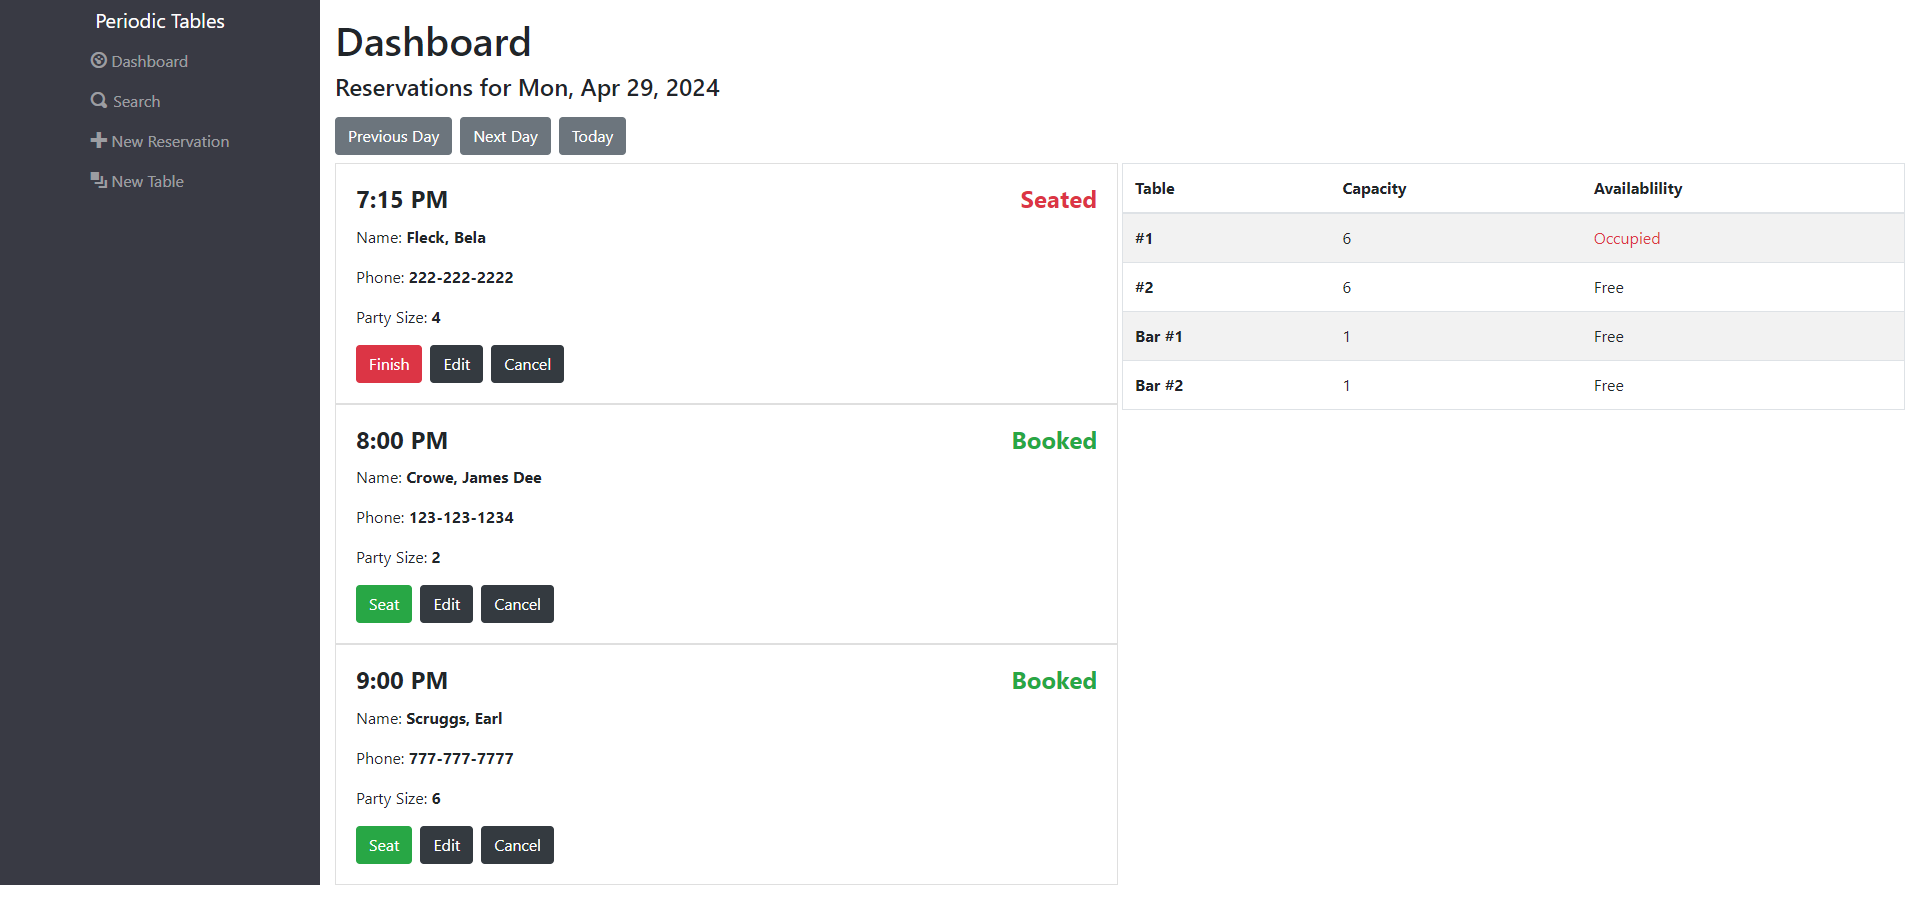
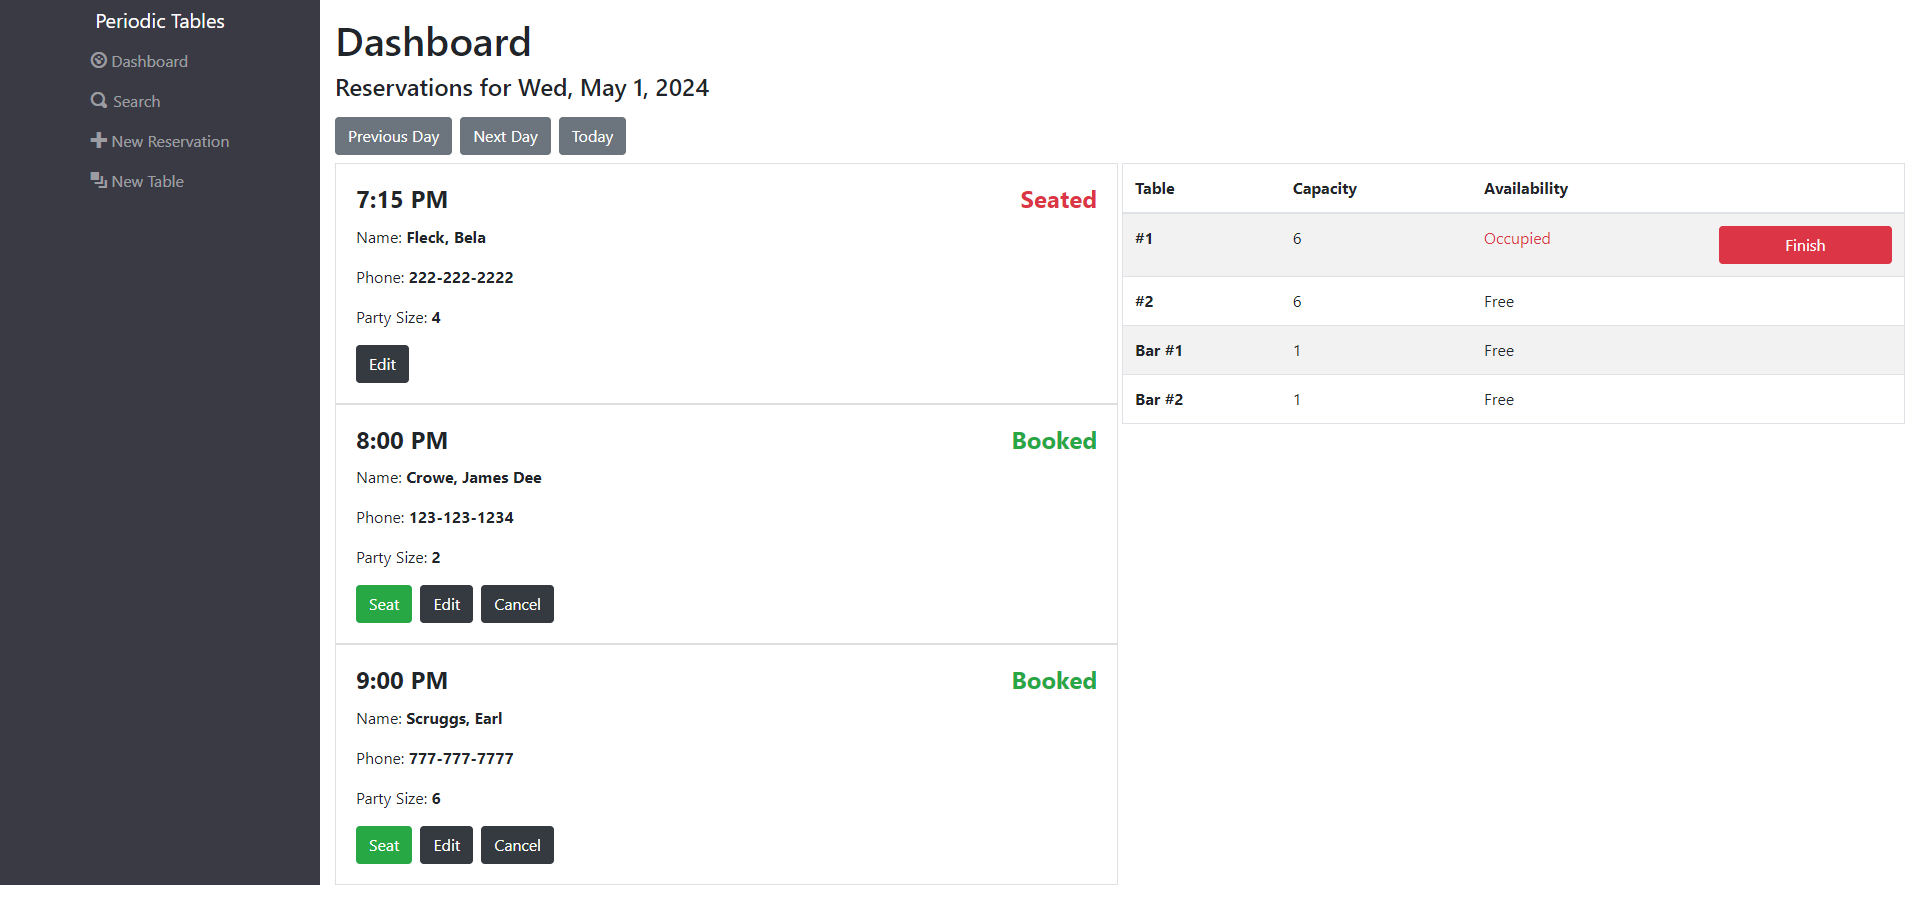
Added more installation info to README - Moved Finish button from reservation to table

diff --git a/front-end/src/dashboard/Reservation.js b/front-end/src/dashboard/Reservation.js
@@ -1,14 +1,9 @@
 import React from "react";
-import {
-  updateReservationStatus,
-  finishReservation,
-  listReservations,
-} from "../utils/api";
+import { updateReservationStatus, listReservations } from "../utils/api";
 
 function Reservation({
   reservation,
   tables,
-  loadDashboard,
   phoneNumber,
   setReservations,
   setReservationsError,
@@ -47,21 +42,6 @@ function Reservation({
     return `${Number(hours) - 12}:${minutes} PM`;
   }
 
-  async function modalFinish() {
-    const abortController = new AbortController();
-    try {
-      const modalMsg = `Is this table ready to seat new guests? This cannot be undone.`;
-      const result = window.confirm(modalMsg);
-      if (result) {
-        await finishReservation(table.table_id, abortController.signal);
-        await loadDashboard();
-      }
-    } catch (error) {
-      setReservationsError(error);
-    }
-    return () => abortController.abort();
-  }
-
   async function modalCancel() {
     const abortController = new AbortController();
     try {
@@ -76,7 +56,6 @@ function Reservation({
         setReservations(list);
       }
     } catch (error) {
-      console.log(error.message);
       setReservationsError(error);
     }
     return () => abortController.abort();
@@ -98,18 +77,12 @@ function Reservation({
   }
 
   function displayButton() {
-    return table ? ( // If reservation is seated, display finish button - (if reservation_id is found to be associated with a table)
-      <button
-        className="btn btn-danger mr-2"
-        onClick={modalFinish}
-        data-table-id-finish={table.table_id}
-      >
-        Finish
-      </button>
-    ) : (
-      <a href={`/reservations/${reservation_id}/seat`}>
-        <button className="btn btn-success mr-2">Seat</button>
-      </a>
+    return (
+      !table && ( // If reservation is seated (reservation_id associated with a table) then don't show "Seat" button
+        <a href={`/reservations/${reservation_id}/seat`}>
+          <button className="btn btn-success mr-2">Seat</button>
+        </a>
+      )
     );
   }
 

diff --git a/front-end/src/dashboard/Table.js b/front-end/src/dashboard/Table.js
@@ -1,7 +1,38 @@
 import React from "react";
+import { finishReservation } from "../utils/api";
 
-function Table({ table }) {
+function Table({ table, setTablesError, loadDashboard }) {
   const { table_id, table_name, capacity, reservation_id } = table;
+
+  async function modalFinish() {
+    const abortController = new AbortController();
+    try {
+      const modalMsg = `Is this table ready to seat new guests? This cannot be undone.`;
+      const result = window.confirm(modalMsg);
+      if (result) {
+        await finishReservation(table.table_id, abortController.signal);
+        await loadDashboard();
+      }
+    } catch (error) {
+      setTablesError(error);
+    }
+    return () => abortController.abort();
+  }
+
+  function finishButton() {
+    if (reservation_id) {
+      return (
+        <button
+          className="btn btn-danger btn-block"
+          onClick={modalFinish}
+          data-table-id-finish={table.table_id}
+        >
+          Finish
+        </button>
+      );
+    }
+  }
+
   return (
     <tr>
       <th scope="row">{table_name}</th>
@@ -13,6 +44,7 @@ function Table({ table }) {
           "Free"
         )}
       </td>
+      <td>{finishButton()}</td>
     </tr>
   );
 }

diff --git a/front-end/src/dashboard/TableList.js b/front-end/src/dashboard/TableList.js
@@ -1,19 +1,24 @@
 import React from "react";
 import Table from "./Table";
 
-function TableList({ tables }) {
+function TableList({ tables, setTablesError, loadDashboard }) {
   return tables.length ? (
     <table class="table border table-striped">
       <thead>
         <tr>
           <th scope="col">Table</th>
           <th scope="col">Capacity</th>
-          <th scope="col">Availablility</th>
+          <th scope="col">Availability</th>
+          <th scope="col"></th>
         </tr>
       </thead>
       <tbody>
         {tables.map((table) => (
-          <Table table={table} />
+          <Table
+            table={table}
+            setTablesError={setTablesError}
+            loadDashboard={loadDashboard}
+          />
         ))}
       </tbody>
     </table>

diff --git a/front-end/src/dashboard/Dashboard.js b/front-end/src/dashboard/Dashboard.js
@@ -102,14 +102,17 @@ function Dashboard({ date, reservations, setReservations }) {
           <ReservationList
             reservations={reservations}
             tables={tables}
-            loadDashboard={loadDashboard}
             setReservations={setReservations}
             setReservationsError={setReservationsError}
             date={date}
           />
         </div>
         <div className="w-100">
-          <TableList tables={tables} />
+          <TableList
+            tables={tables}
+            setTablesError={setTablesError}
+            loadDashboard={loadDashboard}
+          />
         </div>
       </div>
     </main>

diff --git a/front-end/src/dashboard/ReservationList.js b/front-end/src/dashboard/ReservationList.js
@@ -14,7 +14,6 @@ function ReservationList({
       <Reservation
         reservation={reservation}
         tables={tables}
-        loadDashboard={loadDashboard}
         setReservations={setReservations}
         setReservationsError={setReservationsError}
         date={date}

diff --git a/README.md b/README.md
@@ -87,15 +87,15 @@ Clicking cancel will take the user back to the previous page.
 
 ### Install
 
-```sh
-npm install
-```
+1. Run `cp ./back-end/.env.sample ./back-end/.env`.
+1. Update the `./back-end/.env` file with the connection URL's to your PostgreSQL database instance.
+1. Run `cp ./front-end/.env.sample ./front-end/.env`.
+1. You should not need to make changes to the `./front-end/.env` file unless you want to connect to a backend at a location other than `http://localhost:5001`.
+1. Run `npm install` to install project dependencies.
 
 ### Usage
 
-```sh
-npm start
-```
+`npm run start:dev`
 
 ### Run tests
 
